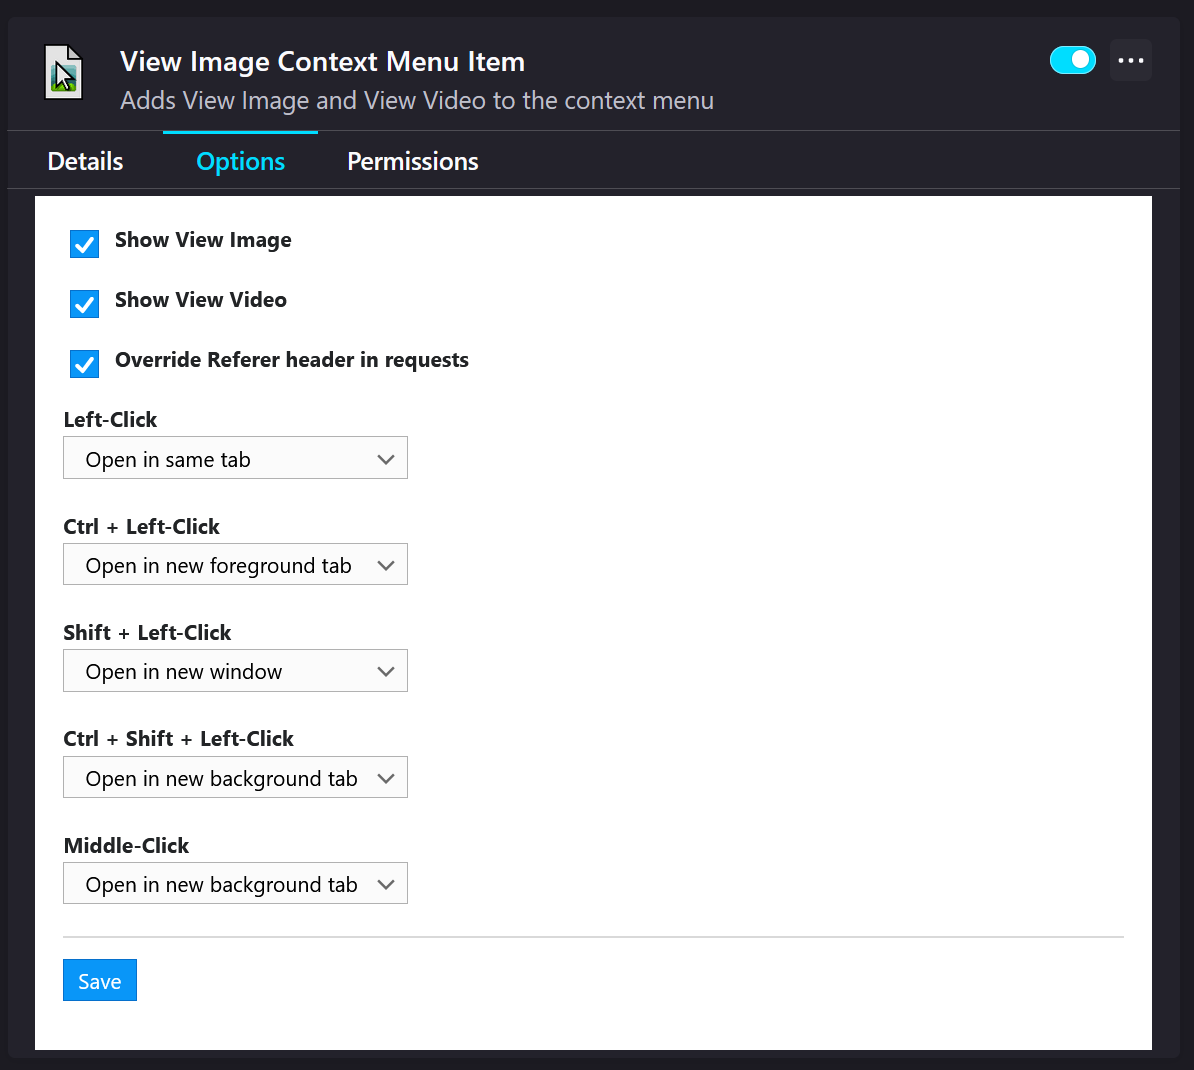
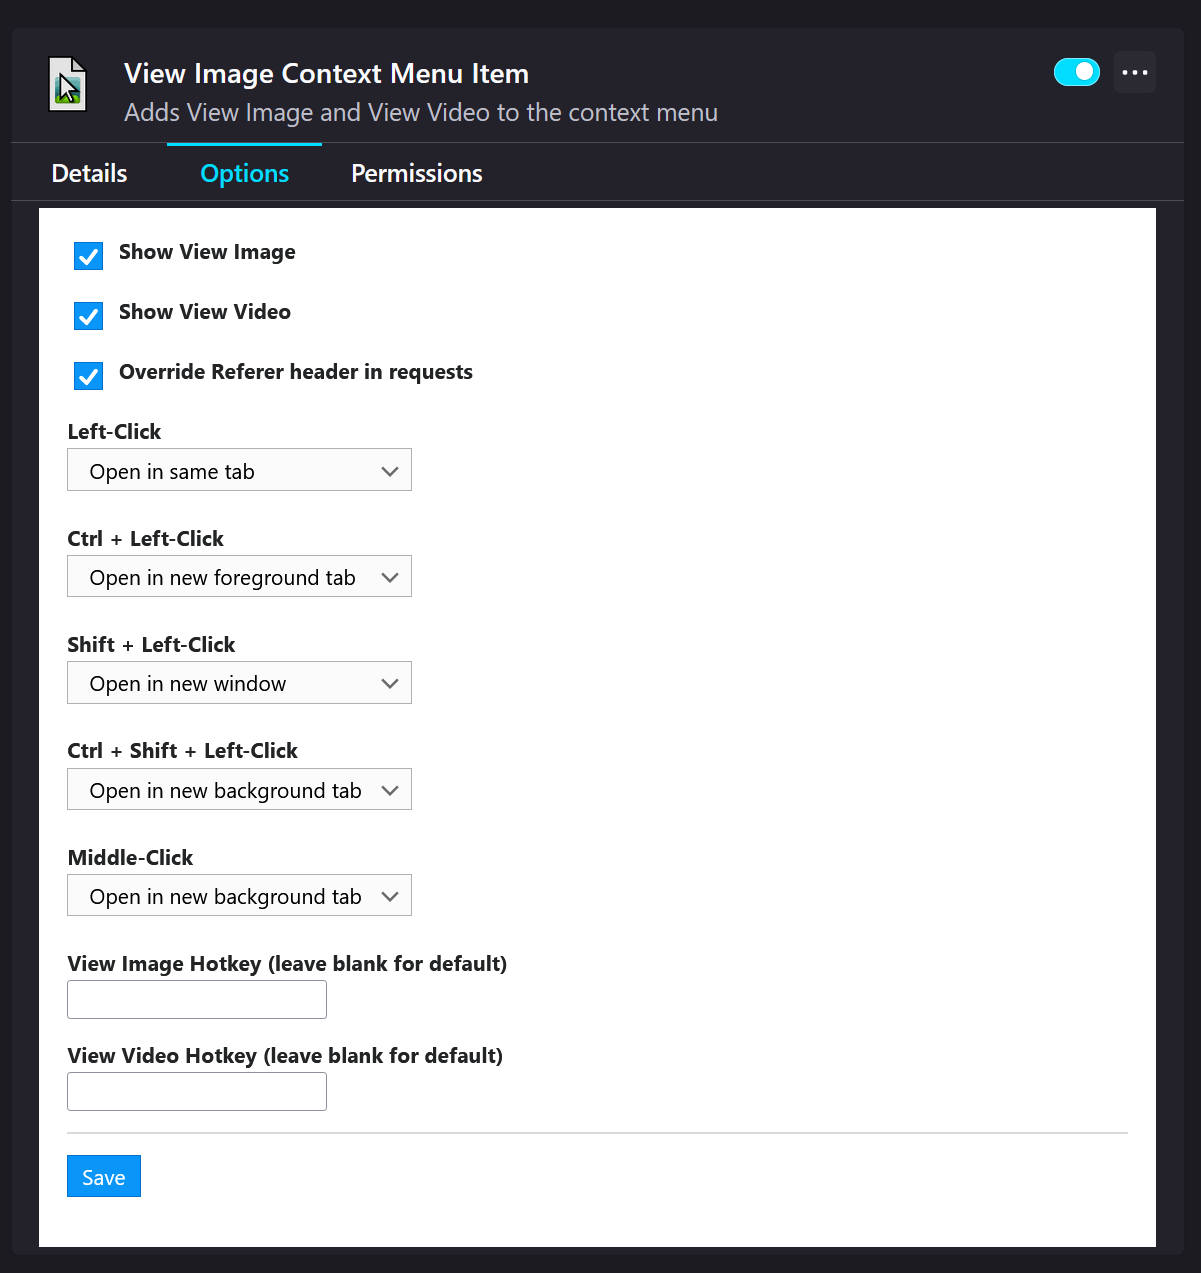
Version 3.1; add options for action keys; go back to M/E for english defaults

Changed region(s): [[0.031, 0.0308, 0.9916, 0.5551], [0.031, 0.586, 0.4338, 0.9869], [0.8677, 0.0308, 0.9296, 0.0617]]

diff --git a/viewImageContextMenuItem/background.js b/viewImageContextMenuItem/background.js
@@ -6,7 +6,9 @@ window.DEFAULT_OPTIONS = Object.freeze({
     "ctrl-left-click-action": "new-foreground-tab",
     "shift-left-click-action": "new-foreground-window",
     "ctrl-shift-left-click-action": "new-background-tab",
-    "middle-click-action": "new-background-tab"
+    "middle-click-action": "new-background-tab",
+    "action-key-view-image": null,
+    "action-key-view-video": null
   });
 
 function loadOptionsFromStorage() {
@@ -38,15 +40,33 @@ function createMenuItems() {
   });
 }
 
+function applyActionKeyToMenuItemTitle(defaultMenuItemTitle, actionKey){
+  if (!actionKey) return defaultMenuItemTitle;
+  let menuItemTitle = defaultMenuItemTitle.replace(/ ?\(\&.\)&/g, "").replace(/\&/g, "");
+  const actionKeyIndex = menuItemTitle.toLowerCase().indexOf(actionKey.toLowerCase());
+  if (actionKeyIndex === -1) {
+    menuItemTitle += " (&" + actionKey + ")";
+  } else {
+    menuItemTitle = menuItemTitle.slice(0, actionKeyIndex) + "&" + menuItemTitle.slice(actionKeyIndex);
+  }
+  return menuItemTitle;
+}
+
 function handleContextMenuShow(info, tab) {
   const isMenuItemRedundant = info.pageUrl === info.srcUrl;
   browser.menus.update(
     "view-image-context-menu-item",
-    { visible: !isMenuItemRedundant && window.options["show-view-image"] }
+    {
+      visible: !isMenuItemRedundant && window.options["show-view-image"],
+      title: applyActionKeyToMenuItemTitle(browser.i18n.getMessage("menuItemViewImage"), window.options["action-key-view-image"])
+    }
   );
   browser.menus.update(
     "view-video-context-menu-item",
-    { visible: !isMenuItemRedundant && window.options["show-view-video"] }
+    {
+      visible: !isMenuItemRedundant && window.options["show-view-video"],
+      title: applyActionKeyToMenuItemTitle(browser.i18n.getMessage("menuItemViewVideo"), window.options["action-key-view-video"])
+    }
   );
   browser.menus.refresh();
 }

diff --git a/viewImageContextMenuItem/options.js b/viewImageContextMenuItem/options.js
@@ -12,10 +12,17 @@ function loadOptions() {
     setSelectedOption("#shift-left-click-action", options["shift-left-click-action"]);
     setSelectedOption("#ctrl-shift-left-click-action", options["ctrl-shift-left-click-action"]);
     setSelectedOption("#left-click-action", options["left-click-action"]);
+    document.querySelector("#action-key-view-image").value = options["action-key-view-image"];
+    document.querySelector("#action-key-view-video").value = options["action-key-view-video"];
   }); 
 }
 
 function saveOptions(event) {
+  function cleanActionKey(rawValue) {
+    if(!rawValue || rawValue.trim().length === 0) return null;
+    return rawValue.trim().charAt(0);
+  }
+
   const options = {
     "show-view-image": document.querySelector("#show-view-image").checked,
     "show-view-video": document.querySelector("#show-view-video").checked,
@@ -24,7 +31,9 @@ function saveOptions(event) {
     "ctrl-left-click-action": document.querySelector("#ctrl-left-click-action").value,
     "shift-left-click-action": document.querySelector("#shift-left-click-action").value,
     "ctrl-shift-left-click-action": document.querySelector("#ctrl-shift-left-click-action").value,
-    "middle-click-action": document.querySelector("#middle-click-action").value
+    "middle-click-action": document.querySelector("#middle-click-action").value,
+    "action-key-view-image": cleanActionKey(document.querySelector("#action-key-view-image").value),
+    "action-key-view-video": cleanActionKey(document.querySelector("#action-key-view-video").value)
   };
 
   browser.storage.local.set({options: options});

diff --git a/viewImageContextMenuItem/options.html b/viewImageContextMenuItem/options.html
@@ -74,6 +74,14 @@
       <option value="nothing">Do nothing</option>
     </select>
   </div>
+  <div class="browser-style section-option">
+    <label class="block-label">View Image Hotkey (leave blank for default)</label>
+    <input type="textbox" id="action-key-view-image" />
+  </div>
+  <div class="browser-style section-option">
+    <label class="block-label">View Video Hotkey (leave blank for default)</label>
+    <input type="textbox" id="action-key-view-video" />
+  </div>
   <div class="panel-section-separator"></div>
   <div class="browser-style section-submission">
     <button class="browser-style default" type="submit">Save</button>
